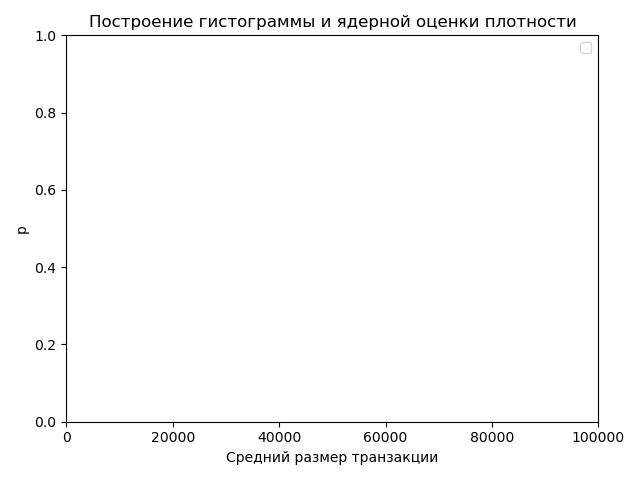
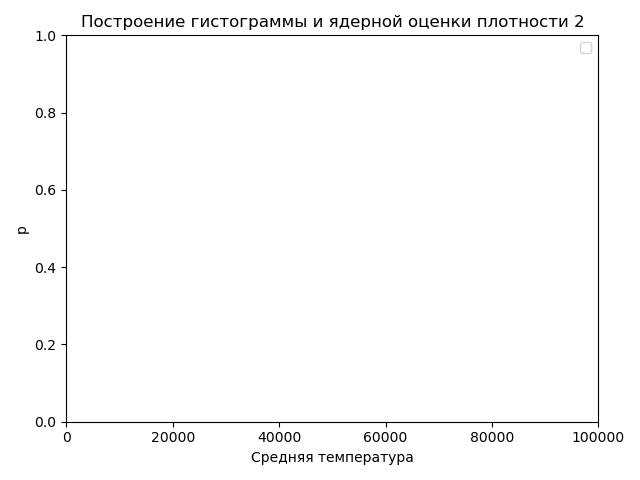
new plots

Changed region(s): [[0.125, 0.0312, 0.9062, 0.0625], [0.3438, 0.9375, 0.6875, 0.9688]]

diff --git a/one_dim_analysis.py b/one_dim_analysis.py
@@ -181,17 +181,17 @@ tb_3cols_all = pd.read_csv("data/data_spb.csv", index_col=0, na_values='NA',
                        usecols=['STATION', 'DATE', 'TEMP', 'WDSP'])
 tb_3cols = tb_3cols_all.loc[26063099999]
 
-plt.figure(figsize=(10, 8))
-# указываем X и Y
-print(tb_3cols['TEMP'])
-print(tb_3cols['DATE'])
-plt.title("Дата и температура по станции 26063099999")
-plt.scatter(tb_3cols['DATE'], tb_3cols['TEMP'])
-plt.xticks(rotation=45)
-plt.xlabel(u'Дата', fontsize=20)
-plt.ylabel(u'Температура (Фаренгейты)', fontsize=20)
-plt.legend()
-plt.show()
+# plt.figure(figsize=(10, 8))
+# # указываем X и Y
+# print(tb_3cols['TEMP'])
+# print(tb_3cols['DATE'])
+# plt.title("Дата и температура по станции 26063099999")
+# plt.scatter(tb_3cols['DATE'], tb_3cols['TEMP'])
+# plt.xticks(rotation=45)
+# plt.xlabel(u'Дата', fontsize=20)
+# plt.ylabel(u'Температура (Фаренгейты)', fontsize=20)
+# plt.legend()
+# plt.show()
 
 # Вычисление выборочного среднего, дисперсии, СКО, медианы
 mean = tb_3cols['TEMP'].mean()
@@ -213,7 +213,7 @@ def mad(df):
 # Вычисление MAD-характеристики (Median Absolute Deviation)
 mad_value = mad(tb_3cols['TEMP'])
 
-print(f'Средний размер транзакции: среднее = {int(mean)}, дисперсия = {int(var)}, СКО = {int(std)},\n'
+print(f'Средняя температура Фаренгейт (за все годы, что не очень полезно): среднее = {int(mean)}, дисперсия = {int(var)}, СКО = {int(std)},\n'
       f'медиана = {int(median)}, усеченное среднее {int(trimmed_mean)}, MAD = {int(mad_value)}')
 
 # Расчет 95% доверительного интервала для выборочного среднего
@@ -247,16 +247,36 @@ kde_values = kernel(x)
 
 den = tb_3cols['TEMP'].tolist()
 density = kde.gaussian_kde(sorted(den))
-sns.displot(tb_3cols['TEMP'], kde=False, norm_hist=True, label=f'Средний размер транзакции в рублях')
+#norm_hist=True,
+sns.displot(tb_3cols['TEMP'], kde=False,  label=f'Средняя температура')
 plt.plot(x, kde_values)
 plt.show()
 
 fig, ax = plt.subplots()
-plt.title("Построение гистограммы и ядерной оценки плотности")
+plt.title("Построение гистограммы и ядерной оценки плотности 2")
 plt.ylabel('p')
-plt.xlabel('Средний размер транзакции')
+plt.xlabel('Средняя температура')
 # Отображаем значения по оси абсцисс только в интервале [0, 10000]
 plt.xlim(0, 10e4)
 plt.legend()
 plt.show()
 fig.savefig('ядерной оценки плотности')
+
+tb_2cols = tb_3cols[['DATE', 'TEMP']]
+tb_2cols.set_index('DATE')
+plt.title("Гистограмма временного ряда loc[26063099999]")
+plt.xlabel(u'Дата', fontsize=20)
+plt.ylabel(u'Температура (Фаренгейты)', fontsize=20)
+plt.legend()
+tb_2cols.hist()
+plt.show()
+
+plt.title(" График распределения с использованием функции сглаживания")
+plt.xlabel(u'Дата', fontsize=20)
+plt.ylabel(u'Температура (Фаренгейты)', fontsize=20)
+plt.legend()
+tb_2cols.plot.kde()
+plt.show()
+
+# ящик
+srez = tb_2cols.loc['2000-01-01':'2000-12-31']
